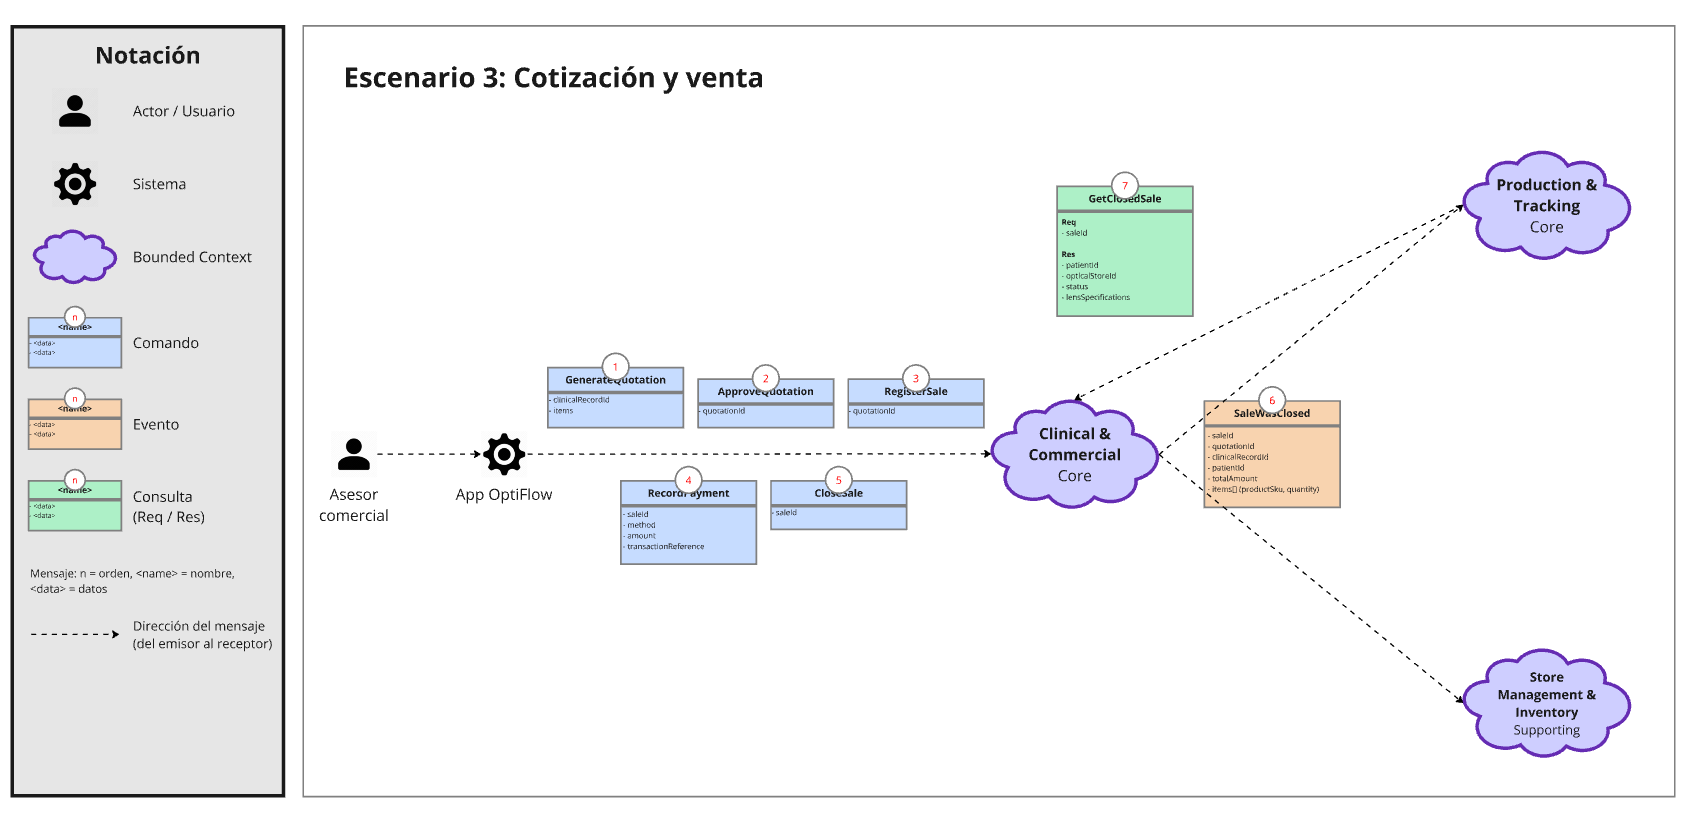
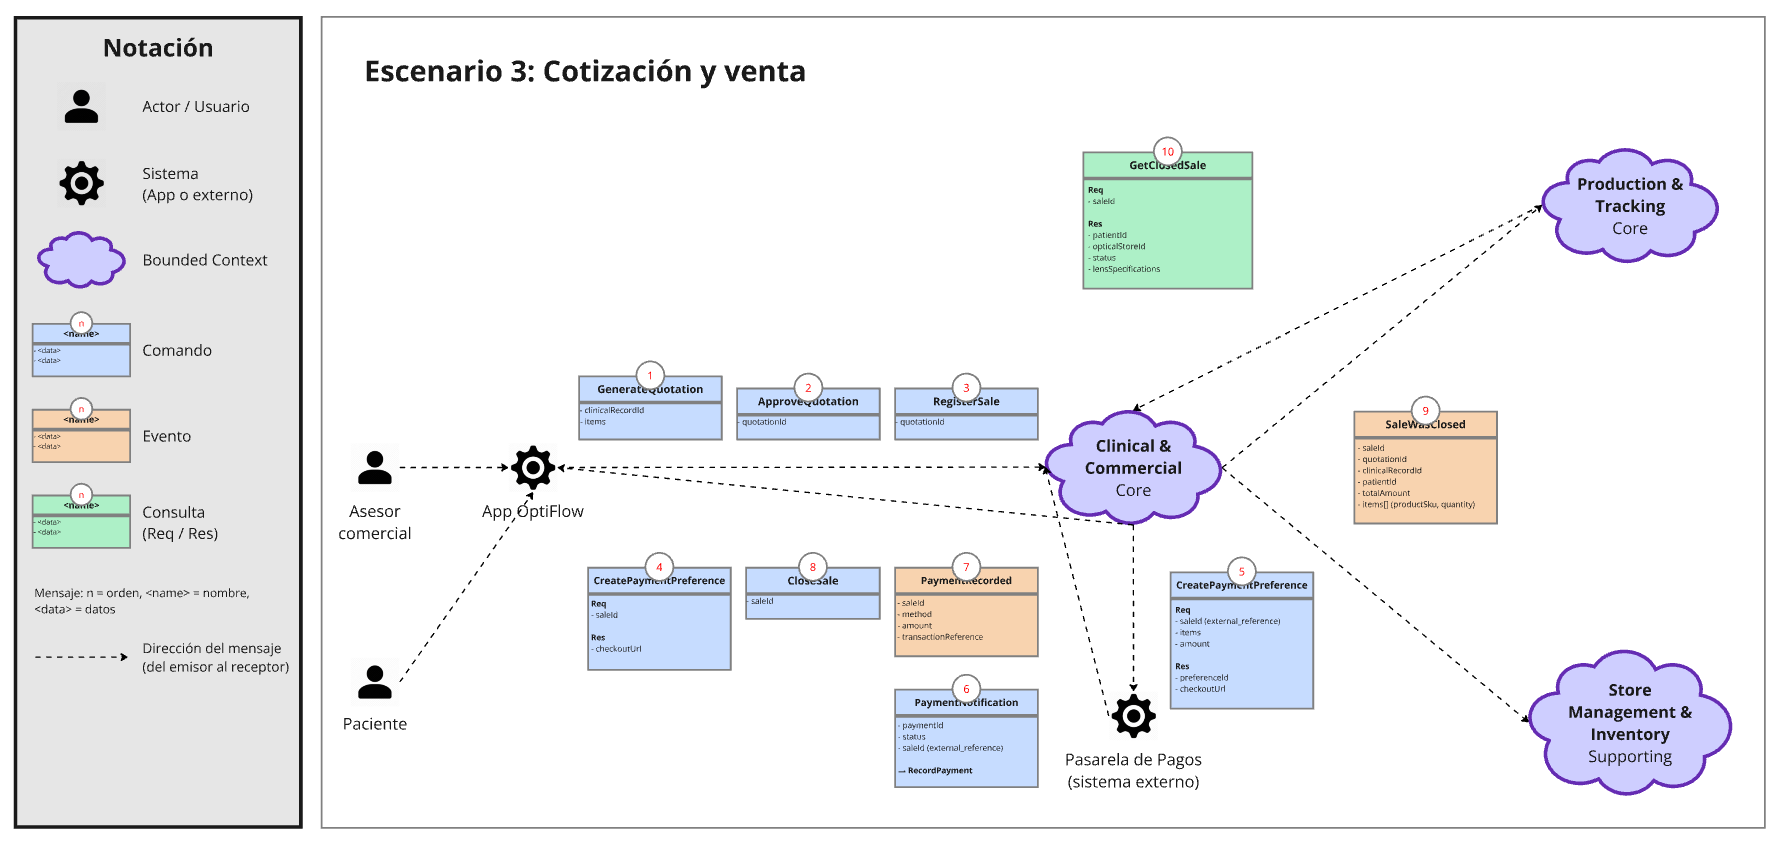
docs: update domain message flow diagrams

Changed region(s): [[0.0, 0.0, 1.0, 1.0], [0.5839, 0.153, 0.7069, 0.3978], [0.7991, 0.306, 0.8298, 0.3366]]

diff --git a/Capitulo2.md b/Capitulo2.md
@@ -986,9 +986,9 @@ A partir de las agrupaciones funcionales definidas en el Paso 3 del EventStormin
 
 **Production & Tracking Context:** Maneja el ciclo de vida de la orden de trabajo desde su generación, asignación a técnicos (Assign work order), envío al laboratorio y actualización de estados hasta la entrega final.
 
-**Notification & Loyalty Context:** Gestiona la comunicación proactiva con el paciente, incluyendo alertas de cumpleaños (Detect patient's birthday), encuestas de satisfacción y campañas de reactivación.
+**Notification & Loyalty Context:** Gestiona la comunicación proactiva con el paciente, incluyendo el beneficio de cumpleaños, los recordatorios de cita y de control anual, los avisos del avance y la demora del pedido y las encuestas de satisfacción.
 
-**Store Management & Inventory Context:** Controla el catálogo de productos físicos (Add new frame model), precios, abastecimiento de proveedores (Suppliers) y alertas de bajo stock, como parte de un diseño pendiente de implementación y migración SQL.
+**Store Management & Inventory Context:** Controla el catálogo de productos físicos (Add new frame model), precios, abastecimiento de proveedores (Suppliers) y alertas de bajo stock, con persistencia en las tablas de la migración V6.
 
 #### 2.5.1.2. Domain Message Flows Modeling
 
@@ -997,7 +997,7 @@ El Domain Message Flow Modeling muestra cómo colaboran los Bounded Contexts de 
 Los diagramas utilizan la siguiente notación, que se repite en la leyenda de cada figura:
 
 - **Actor:** persona que inicia el proceso o consulta su resultado, como el paciente, el optómetra, el asesor comercial o el técnico de laboratorio.
-- **Sistema:** la aplicación móvil App OptiFlow, desde la cual el actor envía sus comandos y consultas.
+- **Sistema:** la aplicación móvil App OptiFlow, desde la cual el actor envía sus comandos y consultas, y los sistemas externos que participan en el proceso: la Pasarela de Pagos y Firebase Cloud Messaging.
 - **Bounded Context:** nube con el nombre del contexto y su clasificación estratégica, Core o Supporting.
 - **Mensajes:** tarjetas con un número que indica el orden en que ocurren: celeste para los comandos, naranja para los eventos y verde para las consultas. La cabecera de cada tarjeta lleva el nombre del mensaje y la parte inferior, los datos que transporta; en las consultas se distinguen los datos de la solicitud (Req) y de la respuesta (Res).
 - **Dirección del mensaje:** flecha punteada que va del emisor al receptor. Cada mensaje se ubica junto a la flecha que lo transporta.
@@ -1022,11 +1022,11 @@ La Tabla 17 resume los eventos que conectan a los Bounded Contexts y el comando 
 | 6 | Production & Tracking | `DeliveryDelayNotified` | Notification & Loyalty | `SendDeliveryDelayNotification` | 5 |
 | 7 | Production & Tracking | `OrderWasMarkedAsDelivered` | Notification & Loyalty | `SendSatisfactionSurvey` | 6 |
 
-La tabla solo incluye eventos. Además, dos contextos consultan información de otro: Clinical & Commercial consulta la cita a Search & Booking (`GetAppointment`, escenario 2) y Production & Tracking consulta la venta cerrada a Clinical & Commercial (`GetClosedSale`, escenario 3). Además de estos flujos entre contextos, Notification & Loyalty gestiona internamente el descuento de cumpleaños: el comando `GrantBirthdayDiscount` registra el beneficio y publica el evento `BirthdayDiscountWasSent`, sin intervención de otros contextos.
+La tabla solo incluye eventos. Los dos sistemas externos participan en los escenarios 3 a 6: Clinical & Commercial crea en la Pasarela de Pagos la preferencia de pago que el paciente paga desde la aplicación y recibe de ella la notificación del resultado, y Notification & Loyalty envía cada aviso como notificación push mediante Firebase Cloud Messaging. Además, dos contextos consultan información de otro: Clinical & Commercial consulta la cita a Search & Booking (`GetAppointment`, escenario 2) y Production & Tracking consulta la venta cerrada a Clinical & Commercial (`GetClosedSale`, escenario 3). Además de estos flujos entre contextos, Notification & Loyalty gestiona internamente el descuento de cumpleaños: el comando `GrantBirthdayDiscount` registra el beneficio y publica el evento `BirthdayDiscountWasSent`, sin intervención de otros contextos.
 
 **Escenario 1: Búsqueda y reserva de cita**
 
-El paciente busca una óptica desde App OptiFlow y consulta sus horarios disponibles mediante las consultas `SearchOpticalStores` y `GetAvailableTimeSlots`, cuyas notas muestran los datos enviados (Req) y recibidos (Res). Al elegir un horario, la aplicación envía el comando `BookAppointment` a Search & Booking, que registra la cita y publica el evento `AppointmentBooked` hacia Clinical & Commercial y Notification & Loyalty, como se muestra en la Figura 19. Al recibirlo, Clinical & Commercial abre el expediente clínico de la atención (`ExaminePatient`) y Notification & Loyalty programa el recordatorio de la cita (`ScheduleAppointmentReminder`).
+El paciente busca una óptica desde App OptiFlow y consulta sus horarios disponibles mediante las consultas `SearchOpticalStores` y `GetAvailableTimeSlots`, cuyas notas muestran los datos enviados (Req) y recibidos (Res). Al elegir un horario, la aplicación envía el comando `BookAppointment` a Search & Booking, que registra la cita y publica el evento `AppointmentBooked` hacia Clinical & Commercial y Notification & Loyalty, como se muestra en la Figura 19. Al recibirlo, Clinical & Commercial abre el expediente clínico de la atención (`ExaminePatient`) y Notification & Loyalty programa el recordatorio de la cita (`ScheduleAppointmentReminder`), que se envía como notificación push antes de la atención.
 
 <a id="figura-19"></a>
 
@@ -1054,7 +1054,7 @@ El optómetra consulta los registros clínicos previos del paciente (`GetClinica
 
 **Escenario 3: Cotización y venta**
 
-El asesor comercial genera la cotización a partir de la receta, la aprueba con el paciente, registra la venta y el pago, y cierra la venta (`GenerateQuotation`, `ApproveQuotation`, `RegisterSale`, `RecordPayment` y `CloseSale`). El cierre publica el evento `SaleWasClosed` hacia Production & Tracking y Store Management & Inventory, como se muestra en la Figura 21. Al recibirlo, Production & Tracking genera la orden de trabajo de los lentes (`GenerateWorkOrder`) y Store Management & Inventory descuenta del stock los productos vendidos (`UpdateInventory`). Para preparar la orden, Production & Tracking consulta a Clinical & Commercial la venta cerrada (`GetClosedSale`) y obtiene las especificaciones de las lunas.
+El asesor comercial genera la cotización a partir de la receta, la aprueba con el paciente y registra la venta (`GenerateQuotation`, `ApproveQuotation` y `RegisterSale`), que queda pendiente de pago. El paciente paga desde App OptiFlow: la aplicación solicita la preferencia de pago (`CreatePaymentPreference`), Clinical & Commercial la crea en la Pasarela de Pagos y devuelve el enlace de pago, y el paciente paga con tarjeta o Yape en la página de la pasarela. La pasarela notifica el resultado al backend (`PaymentNotification`); si el pago fue aprobado, Clinical & Commercial lo registra (`RecordPayment`) y publica `PaymentRecorded`. Luego, el asesor cierra la venta (`CloseSale`); solo una venta pagada puede cerrarse. El cierre publica el evento `SaleWasClosed` hacia Production & Tracking y Store Management & Inventory, como se muestra en la Figura 21. Al recibirlo, Production & Tracking genera la orden de trabajo de los lentes (`GenerateWorkOrder`) y Store Management & Inventory descuenta del stock los productos vendidos (`UpdateInventory`). Para preparar la orden, Production & Tracking consulta a Clinical & Commercial la venta cerrada (`GetClosedSale`) y obtiene las especificaciones de las lunas.
 
 <a id="figura-21"></a>
 
@@ -1064,11 +1064,12 @@ El asesor comercial genera la cotización a partir de la receta, la aprueba con 
 
 ![Domain Message Flow: cotización y venta](assets/cap2/domain-message-flows/dmf-3-cotizacion-y-venta.png)
 
+
 *Nota.* Elaboración propia.
 
 **Escenario 4: Avance de la producción**
 
-El técnico de laboratorio asigna la orden de trabajo, la envía al laboratorio y actualiza su estado a medida que avanza la fabricación (`AssignWorkOrderToTechnician`, `SendWorkOrderToLaboratory` y `UpdateWorkOrderStatus`). Cada cambio de estado publica el evento `WorkOrderStatusUpdated` hacia Notification & Loyalty, que registra el aviso de avance (`NotifyLensOrderProgress`). Luego, el paciente revisa sus avisos desde App OptiFlow mediante la consulta `GetNotificationsByPatient`, como se muestra en la Figura 22.
+El técnico de laboratorio asigna la orden de trabajo, la envía al laboratorio y actualiza su estado a medida que avanza la fabricación (`AssignWorkOrderToTechnician`, `SendWorkOrderToLaboratory` y `UpdateWorkOrderStatus`). Cada cambio de estado publica el evento `WorkOrderStatusUpdated` hacia Notification & Loyalty, que registra el aviso de avance (`NotifyLensOrderProgress`) y lo envía como notificación push al dispositivo del paciente mediante Firebase Cloud Messaging (`SendPushNotification`). Luego, el paciente revisa sus avisos desde App OptiFlow mediante la consulta `GetNotificationsByPatient`, como se muestra en la Figura 22.
 
 <a id="figura-22"></a>
 
@@ -1078,11 +1079,12 @@ El técnico de laboratorio asigna la orden de trabajo, la envía al laboratorio 
 
 ![Domain Message Flow: avance de la producción](assets/cap2/domain-message-flows/dmf-4-avance-de-produccion.png)
 
+
 *Nota.* Elaboración propia.
 
 **Escenario 5: Demora en la entrega**
 
-Si la fabricación se retrasa, el técnico registra la demora con su motivo y la nueva fecha estimada de entrega (`NotifyDeliveryDelay`). Production & Tracking publica el evento `DeliveryDelayNotified` hacia Notification & Loyalty, que registra el aviso de demora (`SendDeliveryDelayNotification`). El paciente consulta ese aviso desde App OptiFlow mediante `GetNotificationsByPatient`, como se muestra en la Figura 23.
+Si la fabricación se retrasa, el técnico registra la demora con su motivo y la nueva fecha estimada de entrega (`NotifyDeliveryDelay`). Production & Tracking publica el evento `DeliveryDelayNotified` hacia Notification & Loyalty, que registra el aviso de demora (`SendDeliveryDelayNotification`) y lo envía como notificación push mediante Firebase Cloud Messaging (`SendPushNotification`). El paciente consulta ese aviso desde App OptiFlow mediante `GetNotificationsByPatient`, como se muestra en la Figura 23.
 
 <a id="figura-23"></a>
 
@@ -1092,11 +1094,12 @@ Si la fabricación se retrasa, el técnico registra la demora con su motivo y la
 
 ![Domain Message Flow: demora en la entrega](assets/cap2/domain-message-flows/dmf-5-demora-en-la-entrega.png)
 
+
 *Nota.* Elaboración propia.
 
 **Escenario 6: Entrega del pedido y encuesta de satisfacción**
 
-Cuando el paciente recoge sus lentes, el técnico marca la orden de trabajo como entregada (`MarkOrderAsDelivered`). Production & Tracking publica el evento `OrderWasMarkedAsDelivered` hacia Notification & Loyalty, que registra la encuesta de satisfacción (`SendSatisfactionSurvey`). El paciente consulta la encuesta desde App OptiFlow mediante `GetNotificationsByPatient`, como se muestra en la Figura 24.
+Cuando el paciente recoge sus lentes, el técnico marca la orden de trabajo como entregada (`MarkOrderAsDelivered`). Production & Tracking publica el evento `OrderWasMarkedAsDelivered` hacia Notification & Loyalty, que registra la encuesta de satisfacción (`SendSatisfactionSurvey`) y la envía como notificación push mediante Firebase Cloud Messaging (`SendPushNotification`). El paciente consulta la encuesta desde App OptiFlow mediante `GetNotificationsByPatient` y la responde con una calificación de 1 a 5 y un comentario opcional (`AnswerSatisfactionSurvey`), como se muestra en la Figura 24.
 
 <a id="figura-24"></a>
 
@@ -1105,6 +1108,7 @@ Cuando el paciente recoge sus lentes, el técnico marca la orden de trabajo como
 *Domain Message Flow del escenario de entrega del pedido y encuesta de satisfacción*
 
 ![Domain Message Flow: entrega del pedido y encuesta de satisfacción](assets/cap2/domain-message-flows/dmf-6-entrega-y-encuesta.png)
+
 
 *Nota.* Elaboración propia.
 
